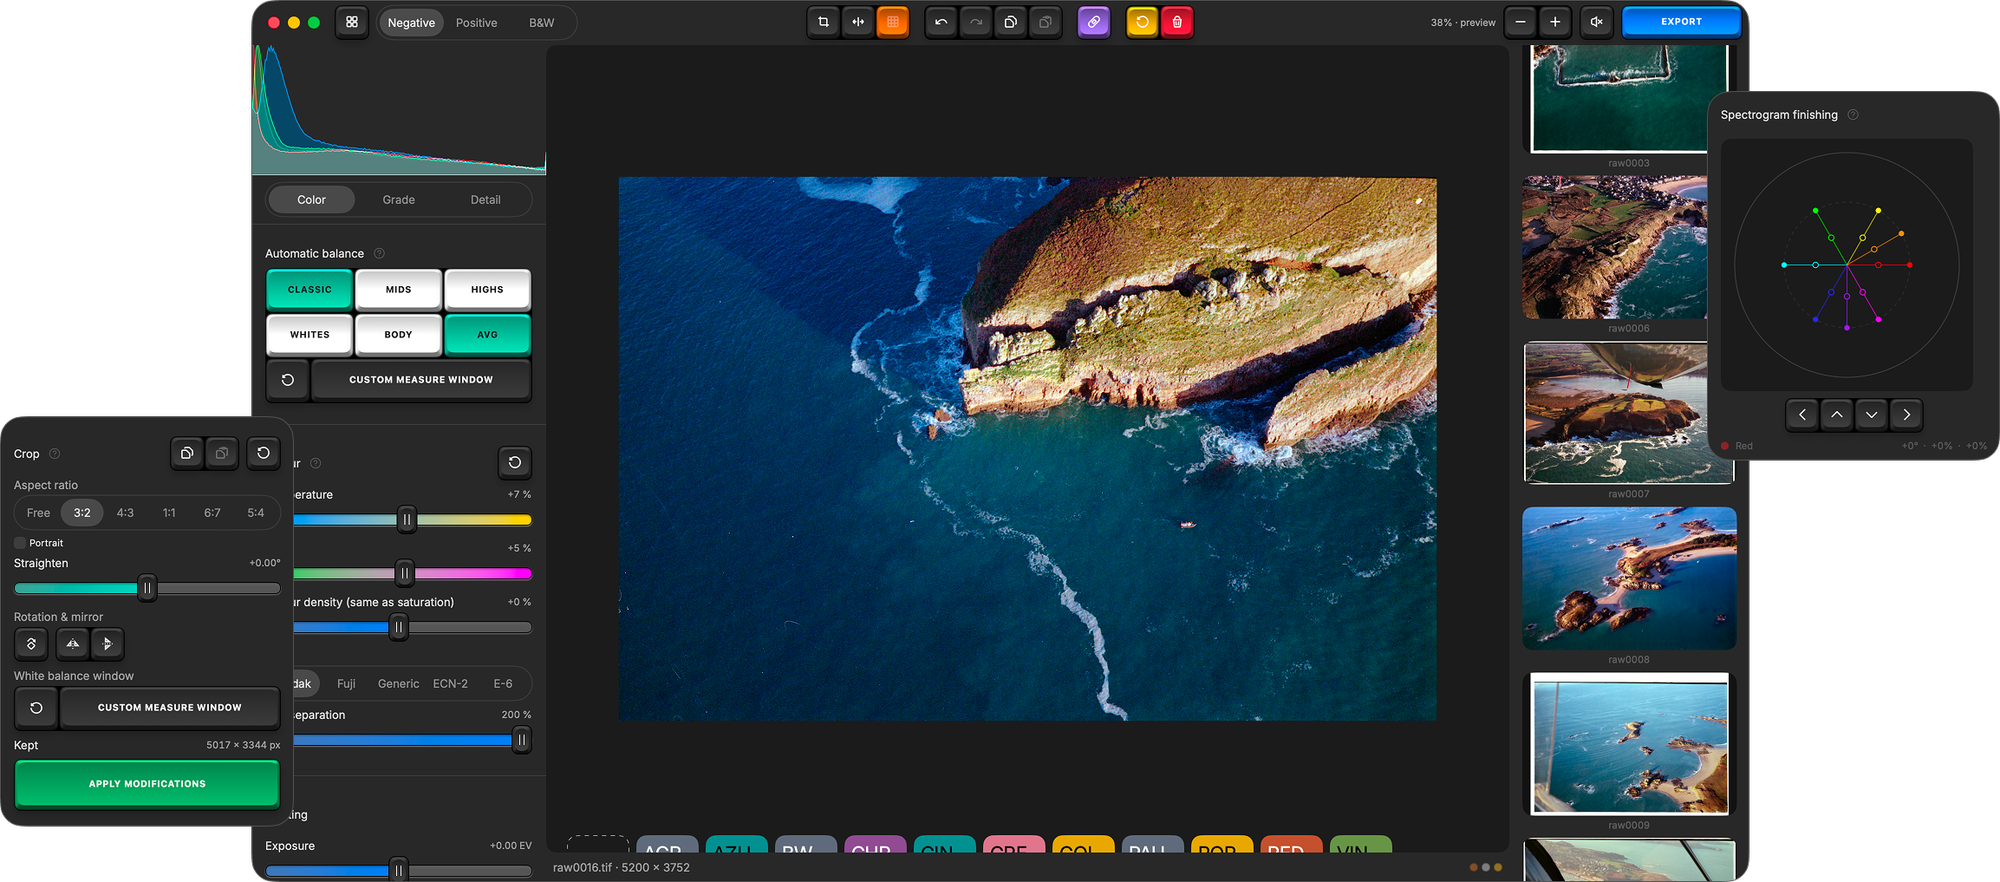
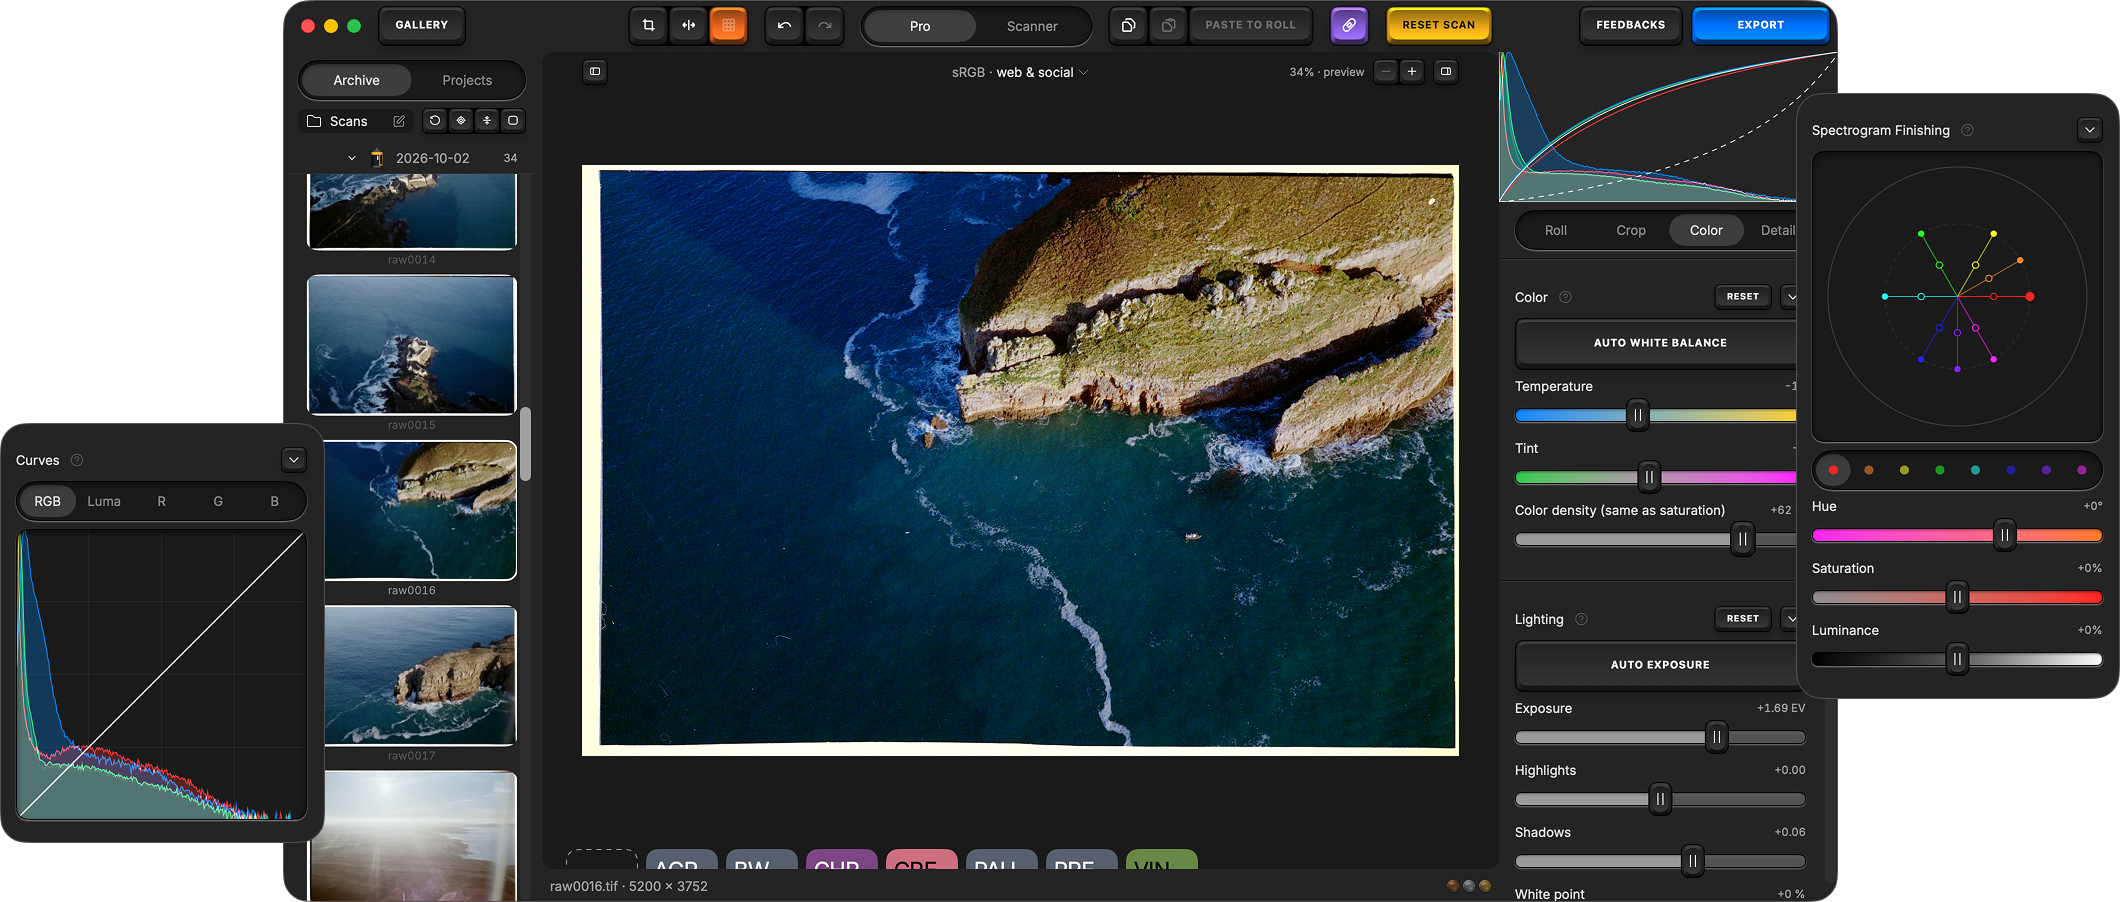
README for 1.0: what the app does now, and the 1.0.3 visuals

diff --git a/README.md b/README.md
@@ -5,30 +5,28 @@
 <h1 align="center">Open Negative Initiative</h1>
 
 <p align="center">
-  Convert and edit scanned film on macOS: negatives, positives and black &amp; white.<br>
-  Free, native, and floating point from the RAW to the file it writes.
+  Convert and edit scanned film on macOS: colour negatives, slides and black &amp; white.<br>
+  Each roll measured whole, its colour managed to the file. Free and open source.
 </p>
 
 <p align="center">
   <a href="https://github.com/5e1y/open-negative-initiative-releases/releases/latest">
     <img src="https://img.shields.io/github/v/release/5e1y/open-negative-initiative-releases?style=flat-square&color=E26D1F&label=version" alt="Latest version"></a>
-  <img src="https://img.shields.io/badge/status-beta-E26D1F?style=flat-square" alt="Beta">
+  <img src="https://img.shields.io/badge/licence-GPL--3.0-E26D1F?style=flat-square" alt="GPL-3.0">
   <img src="https://img.shields.io/badge/macOS-13%2B-E26D1F?style=flat-square" alt="macOS 13 or later">
   <img src="https://img.shields.io/badge/Apple%20Silicon%20%C2%B7%20Intel-universal-E26D1F?style=flat-square" alt="Universal binary">
 </p>
 
 <p align="center">
   <!-- Through the website, which counts the click and redirects; the file still comes from this
-       repository's latest release. Measured 18 August 2026: `download_count` counts bytes served to
-       anything that asks, and could not tell this button apart from a crawler or from Sparkle
-       updating an existing copy. `t=readme` names this button; the referring host separates the
-       GitHub page from the Pages one, so both surfaces are told apart without a second link. -->
+       repository's latest release. `download_count` counts bytes served to anything that asks, and
+       cannot tell this button apart from a crawler or from Sparkle updating an existing copy. -->
   <a href="https://open-negative-initiative.com/dl?t=readme">
     <strong>↓ Download for macOS</strong></a>
   &nbsp;·&nbsp;
   <a href="https://open-negative-initiative.com/">Website</a>
   &nbsp;·&nbsp;
-  <a href="https://open-negative-initiative.com/gallery">Gallery</a>
+  <a href="https://open-negative-initiative.com/guide">Quick guide</a>
   &nbsp;·&nbsp;
   <a href="https://open-negative-initiative.com/manual">Manual</a>
   &nbsp;·&nbsp;
@@ -36,125 +34,86 @@
 </p>
 
 <p align="center">
-  <img src="assets/screenshot.png" alt="The editor: an aerial frame of a cliff and turquoise sea on the canvas, the Color panel down the left with its histogram, the six automatic balance keys with CLASSIC and AVG lit, the temperature and tint filters and the dye separation row, the film strip down the right, and the Crop and Spectrogram finishing panels floating over it">
+  <img src="assets/screenshot.png" alt="The editor on the Color tab: an aerial scan of a cliff above a dark blue sea, the roll's frames in the Archive column, and the Color and Lighting blocks with AUTO WHITE BALANCE and AUTO EXPOSURE, with the Curves and Spectrogram Finishing blocks laid over the window's edges">
 </p>
 
 ---
 
 ## What it does
 
-- **Inverts in density.** The sliders behave linearly in stops, so a correction reads
-  like an exposure change instead of a curve fight.
-- **Nothing decides on its own.** No automatic white balance, no film-base detection, no preset
-  applied on import. The automatic balance places its points on a click, and one ⌘Z takes them back.
-- **Camera scans and flatbed scans.** Camera RAW, linear DNG, TIFF, JPEG, PNG and HEIC in, an
-  extended linear Rec. 2020 working space throughout, 16-bit TIFF or JPEG out in the colour space
-  you pick.
-- **Your originals are only read.** Import is by reference, your settings live beside each scan, and
-  nothing is written to your disk outside an export you asked for.
+- **Measures a roll as a whole.** Prepare the Roll asks four things only you can answer: the film
+  type and what digitised it, a flat-field from a frame of the empty light panel, the film base
+  picked under a loupe, and one measuring frame for the whole roll. Measure then reads every frame
+  and sets one window the roll opens on: each channel's gain is the roll's median, its ends the
+  second most extreme frame, so a light leak never sets the range.
+- **Inverts in density**, not with `1 − x`, so every slider behaves linearly in stops.
+- **Manages colour to the file.** One working space for the canvas and the export, sRGB, Display P3,
+  Adobe RGB or a paper's ICC profile, so what you edit is what the file holds. Floating point from
+  the decode to the export.
+- **Nothing decides on its own.** No film-base detection, no preset applied on import. Auto White
+  Balance and Auto Exposure run only when you press them, and one ⌘Z takes them back.
+- **Your originals are only read.** Point it at the folder that holds your scans: its folders are
+  the archive, nothing is copied, and the settings live in a sidecar beside each file.
 
-## Where it is
-
-**Beta since 0.1.0.** Bugs are still to be expected, and the render is not frozen: some versions
-change how a photograph you have already adjusted will render, and the first line of every release
-note says whether this is one of them.
-
-macOS 13 Ventura or later, on Apple Silicon or Intel: one universal build for both.
+<p align="center">
+  <img src="assets/prepare-the-roll.png" alt="Prepare the Roll on Place the Measuring Frame: a teal measuring frame over a scan of sails, the roll's thumbnails and the MEASURE key, with the Film Type and Flat-Field blocks and the Select Roll Type picker laid over the window's edges">
+</p>
 
 ## Features
 
-**Converting**
+**The roll**
 
-- **Negative, positive, black &amp; white.** The frame's own nature, set in the top bar, not a preset.
-- **Automatic balance, six ways.** Classic, Mids, Highs, Whites, Body and their average. Each wins
-  on films the others lose; none is right everywhere, which is why there are six. They read the
-  measuring window in square cells, each taken by its median, so dust and specks never set a point.
-- **A measuring window of your own.** A cyan frame you place on the photograph, after which the
-  balance and the levels histogram read only what it holds. It travels with the framing copy and paste.
-- **Source balance.** Per-channel gains, ±3 stops, where a dichroic head would act.
-- **Per-channel levels.** Black, shadows, midtone, highlights and white, placed on a density axis
-  you can read, with the histogram measured before the handles so it does not move under them.
-- **Density ceiling.** How far up the axis is read, to pull separation out of a burnt patch.
-- **Dye separation.** A crosstalk matrix that subtracts each dye's spill into the other two
-  channels, so colours separate while greys stay where they are. Five families (Kodak C-41,
-  Fuji C-41, Generic C-41, ECN-2 and E-6), dosed from 0 to 200 %.
-- **Manual curves.** Five channels, drawn by hand, on a natural cubic spline.
-- **Flat-field correction.** A mask divided out before anything else, for the lighting of the rig.
+- **Prepare the Roll**, from the gallery's PREPARE ROLL key or the first frame of a roll never
+  measured. Flag light leaks and extreme shots: they take the roll's window without setting it.
+  Frames captured with other shutter, aperture or ISO settings are evened out from their EXIF.
+- **The Roll tab** holds what a roll shares, and a gesture there reaches every frame of the roll:
+  film type, flat-field, source encoding, source balance, density ceiling, per-channel levels, dye
+  separation (five families, Kodak, Fuji, Generic C-41, ECN-2 and E-6) and balance strength.
+- **A contact sheet** is laid by every measurement, six frames to a row on the roll's own window.
 
-**Grading**
+**A frame**
 
-- **Exposure in stops.** ±4 EV with the hue held, so a white stays white in both directions and the
-  mid-tones carry the stop. Then the two end points, shadows, highlights and midtones.
-- **Colour.** Temperature and tint as filters, plus colour density, acting after the conversion.
-- **Effects.** Contrast, vignette and film fade. The contrast is a normalised logistic, monotone
-  and pinned at both ends, so it cannot clip.
-- **Spectrogram finishing.** Eight points on a wheel, one per colour range: the angle is that
-  colour's hue, the distance from the centre its saturation, and a second point on the same spoke
-  its luminance.
-- **Finishing balance.** Five zones per channel, black to white, where a middle band is held
-  against the end points rather than allowed to overtake them.
-- **Zone saturation.** Saturation split on luminance, shadows to highlights.
+- **Color.** Auto White Balance, Temperature and Tint, which move the colour and never the light,
+  and colour density. Lighting with Auto Exposure, Exposure, Highlights, Shadows, White point and
+  Black point. Scanner Emulation with ONI, Noritsu and Frontier looks, off at rest. Effects
+  (Contrast, Vignette, Chrome), Curves, Spectrogram Finishing and a Saturation Curve.
+- **Crop.** Aspect ratio, straighten, rotate and mirror, and a framing of its own to copy and paste
+  across a roll.
+- **Details.** Sharpening, chroma denoise that leaves the luma bit-identical so the grain survives,
+  texture, and a loupe at full resolution.
+- **De-dust.** A brush and a classical search on the GPU for a matching patch in the same frame. No
+  neural network, and nothing happens without a stroke of yours.
+- **Copy and paste** carry the Color and Details tabs; PASTE TO ROLL lays them on every frame of the
+  roll.
+- **Scanner mode** lays the balance, colour, density and framing on a lab scanner's keyboard.
 
-**Detail**
+**The archive**
 
-- **Chroma denoise.** Colour noise only; the luma comes out bit-identical, so grain survives.
-- **Sharpening and texture.** Dosed in full-resolution pixels, with a loupe that renders at 1:1
-  because no fitted preview can show what the exported file will get.
-- **The canvas renders in your display's own colour space**, so saturated colours that would clip on
-  a wide-gamut screen show. View → Canvas Colour Space puts it back; exports are unchanged either way.
+- **The folders on your disk are the archive.** A roll is a folder that carries its film, and wears
+  its film stock as its icon. Drag photos, rolls and folders onto a folder to move them; ⌘Z puts
+  them back.
+- **Projects** gather frames across rolls, a photo in one project at a time.
+- **Medals**, Bronze, Silver and Gold, with a filter that shows one at a time.
 
-**Correction**
+**Export**
 
-- **Dust and scratches.** A round brush, and nothing scans the photograph looking for defects: your
-  stroke is the only detector. A classical search on the GPU then finds a matching patch elsewhere
-  in the same frame and copies it pixel for pixel. No neural network. Each correction is numbered
-  and listed, so you can take one back without taking back the rest.
+- **A screen of its own**, with three presets, Instagram, Display and Print, that set every row and
+  lock none.
+- **16-bit TIFF or JPEG**, in sRGB, Display P3, Adobe RGB or a paper's ICC profile, converted by
+  ColorSync. The size rides one edge and never enlarges.
+- **An HDR gain map** on JPEG exports. It changes no pixel: an HDR screen shows the picture up to two
+  stops above the white of the page, and every other reader sees the same picture.
+- **EXIF per frame**: camera, lens, film, ISO, date, artist and copyright, opened on the scan's own
+  EXIF so you can see whose facts those are and replace them. Nothing else of the original is
+  written.
 
-**Framing**
-
-- **Crop, straighten, quarter turns, two mirrors.** At 3:2, 4:3, 1:1, 6:7, 5:4 or free. The whole
-  photograph stays visible under an angle, and a locked ratio is reapplied on every quarter turn.
-- **Copy and paste a framing** over a whole selection, which is what a copy stand wants.
-
-**Archive**
-
-- **Sidecars are the truth.** One JSON beside each original; the index is a cache you can throw
-  away without losing an adjustment, and it rebuilds itself from the sidecars.
-- **Rolls.** Group frames with ⇧⌘G and name it; the gallery cuts on rolls, not days. A roll carries
-  its own film stock, shot date and camera body.
-- **Boxes.** Virtual containers that nest above rolls, and never folders on disk.
-- **Projects.** Frames pulled across rolls, each photograph sitting in one project.
-- **Medals.** Bronze, Silver and Gold, set on a photograph or a whole selection, with a filter in
-  the top bar that shows one tier and no other.
-- **Drag and drop.** Move a photograph into any roll or day by dropping it there, and import by
-  dragging files or a whole folder from the Finder anywhere in the window.
-- **A grid of six or twelve columns.** Six because a strip of film is cut into six frames, twelve
-  for sorting a roll rather than judging one frame.
-- **The library is read off the main thread**, so the gallery stays usable while the originals are
-  read, and the index pass shows on the status bar with its counter.
-- **A moved or unplugged original is found again by its fingerprint**, not by its file name.
-- **Contact sheets.** A selection laid six to a row in one scene-linear TIFF, imported and edited
-  as one photograph. The balance reads each frame through its own window rather than the sheet as
-  one picture, and the gaps export black.
-- **Presets.** One file each, shared by sending it. Five film presets ship with the app: Azure,
-  Cinestill 800T, Gold 200, Portra 400 and Redscale.
-- **Copy and paste settings.** Row by row, over a whole selection. A copy carries only what the
-  source photograph actually moved.
-
-**Exporting**
-
-- **A screen of its own.** One row per photograph, their settings in a panel beside them, the size
-  each file will weigh estimated from its preview, and a batch you can stop between two files.
-- **16-bit TIFF or JPEG**, in sRGB, Display P3 or Adobe RGB. Exports never enlarge: a size above the
-  original is brought back to the original.
-- **Three presets.** Instagram, Display and Print set every row at once and lock nothing.
-- **An HDR gain map** on JPEG exports. It changes no pixel: an HDR screen shows the picture up to
-  two stops above the white of the page, and every other reader sees exactly the same picture.
-- **Seven EXIF fields per image.** Camera, lens, film picked from a catalogue of 41 stocks, ISO,
-  date, artist and copyright. The line opens on the scanner's own EXIF so you can see whose facts those are and
-  replace them, and nothing of the scanner is written unless you leave it there.
+<p align="center">
+  <img src="assets/export.png" alt="The Export screen: the frame's EXIF fields on the left, a colour frame of sails in the middle, and the INSTAGRAM, DISPLAY and PRINT presets, Format, Space, Quality, Size and the HDR hack switch on the right, with the working space menu on a paper profile laid over its right edge">
+</p>
 
 ## Installing
+
+macOS 13 Ventura or later, on Apple Silicon or Intel: one universal build for both.
 
 Open the DMG and drag the app onto the Applications folder beside it. If macOS says it cannot
 verify the app, open **System Settings → Privacy & Security**, scroll to the bottom and click
@@ -166,28 +125,20 @@ have already adjusted will render.
 
 ## Reporting something
 
-Open an [issue](https://github.com/5e1y/open-negative-initiative-releases/issues). Two things make a
-report usable: **the version**, which the About window reads on its own, and **the RAW file** if it
-is a colour or decoding problem: a screenshot shows the symptom, the file reproduces it.
-
-A picture that opens flat or nearly white is worth reporting even though nothing crashed.
+The **FEEDBACKS** key in the app opens an issue here with no account at all. You can also open an
+[issue](https://github.com/5e1y/open-negative-initiative-releases/issues) on GitHub. Two things make
+a report usable: **the version**, which the About window shows, and **the RAW file** if it is a
+colour or decoding problem: a screenshot shows the symptom, the file reproduces it.
 
 ## Source code
 
-**Not in this repository.** This one holds the builds and the update feed. The app is licensed
-**GPL-3.0**, and **every release carries its own source archive**, attached to that release as
-`OpenNegative-<version>-source.zip`. The versions published before the archive existed have been
-given one too, so there is no build you can install and not read.
+Open Negative Initiative is **GPL-3.0**, and **every release carries its complete source**, attached
+to that release as `OpenNegative-<version>-source.zip`: the Swift code, the Metal kernels, the
+resources, the package manifest, the Makefile and a README that lists what building it takes.
 
-**Take the file with `-source` in its name**, not the "Source code (zip)" GitHub attaches on its
-own: that one archives *this* repository, binaries and an update feed, and holds no Swift at all.
+**Take the file with `-source` in its name**, not the "Source code (zip)" GitHub attaches on its own:
+that one archives *this* repository, which holds the builds and the update feed.
 
-Each archive is built in the same pass as the binary it ships with, so what you read is the tree
-that produced the build you are running and not whatever it became afterwards. Inside: the Swift
-sources, the Metal kernels, the resources, the package manifest and the Makefile, and none of the
-tooling that is specific to my own machine.
-
-**One piece is missing, and it is worth knowing before you start.** The keycap button component
-lives in a separate private repository, so the archive does not compile as it stands: drop the
-`Keycap` dependency from `Package.swift` and put plain SwiftUI buttons in its place first. That is
-about an hour of work, and everything else builds with `make app`.
+How the app works, stage by stage and with the research behind it, is written on
+[the website](https://open-negative-initiative.com/features), and
+[the source page](https://open-negative-initiative.com/open) says what the licence gives you.
